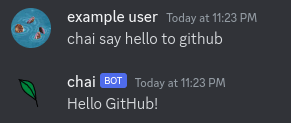
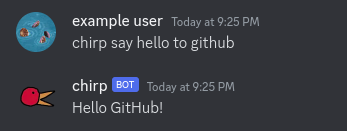
changed name to chirp

diff --git a/chirp.rb b/chirp.rb
@@ -1,4 +1,4 @@
-#CHatgpt Answer Interface
+#chirp
 #require './discordrb'
 require 'discordrb'
 require 'dotenv'
@@ -12,7 +12,7 @@ openaitoken = ENV['openaitoken']
 bot = Discordrb::Bot.new token: discordtoken
 client = OpenAI::Client.new(access_token: openaitoken)
 
-bot.message(start_with: 'chai ') do |event|
+bot.message(start_with: 'chirp ') do |event|
 
   #remove the first (triggering) word (-1 is last element in ruby)
   question = "#{event.message}"
@@ -27,7 +27,7 @@ bot.message(start_with: 'chai ') do |event|
     #request image
     response = client.images.generate(parameters: { prompt: question, size: "512x512"})
     message = response.dig("data", 0, "url")
-    
+
     #if the response is empty (mostly due to no being able to generate the request)
     if message.nil?
       event.respond "I'm sorry, I can't do that."

diff --git a/readme.md b/readme.md
@@ -1,6 +1,6 @@
-# Chai  
+# Chirp  
 
-Chai (CHatgpt Answer Interface) uses the Discord and OpenAI APIs to receive and answer ChatGPT prompts from Discord.
+Chirp uses the Discord and OpenAI APIs to receive and answer ChatGPT prompts from Discord.
 
 ## Running  
 
@@ -21,24 +21,24 @@ There are three required gems to install:
 ### Running:  
 After installing all prerequisites, the program can be run with:  
 ```bash
-ruby chai.rb
+ruby chirp.rb
 ```
 
 ## Use:  
 
 ### Messages:  
-Ask chai a question using the following format in discord:
+Ask chirp a question using the following format in discord:
 ```bash
-chai [question body here]
+chirp [question body here]
 ```  
 Example usage:  
 
 ![Example Usage](example.png?raw=true)
 
 ### Images:  
-Chai supports DALLE images using the following format:  
+Chirp supports DALLE images using the following format:  
 ```bash
-chai paint [prompt here]
+chirp paint [prompt here]
 ```  
 It returns a URL, which should be automatically embedded by Discord.  
 
